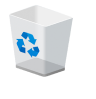
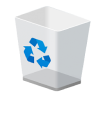
some fixesss

diff --git a/css/workspace.css b/css/workspace.css
@@ -22,7 +22,7 @@
 }
 /*Adjust the icons escale (inventory, trashcan)*/
 .custom-image {
-    width: 5vw; 
+    width: 6vw; 
     height: auto; 
     cursor: pointer;
   }
